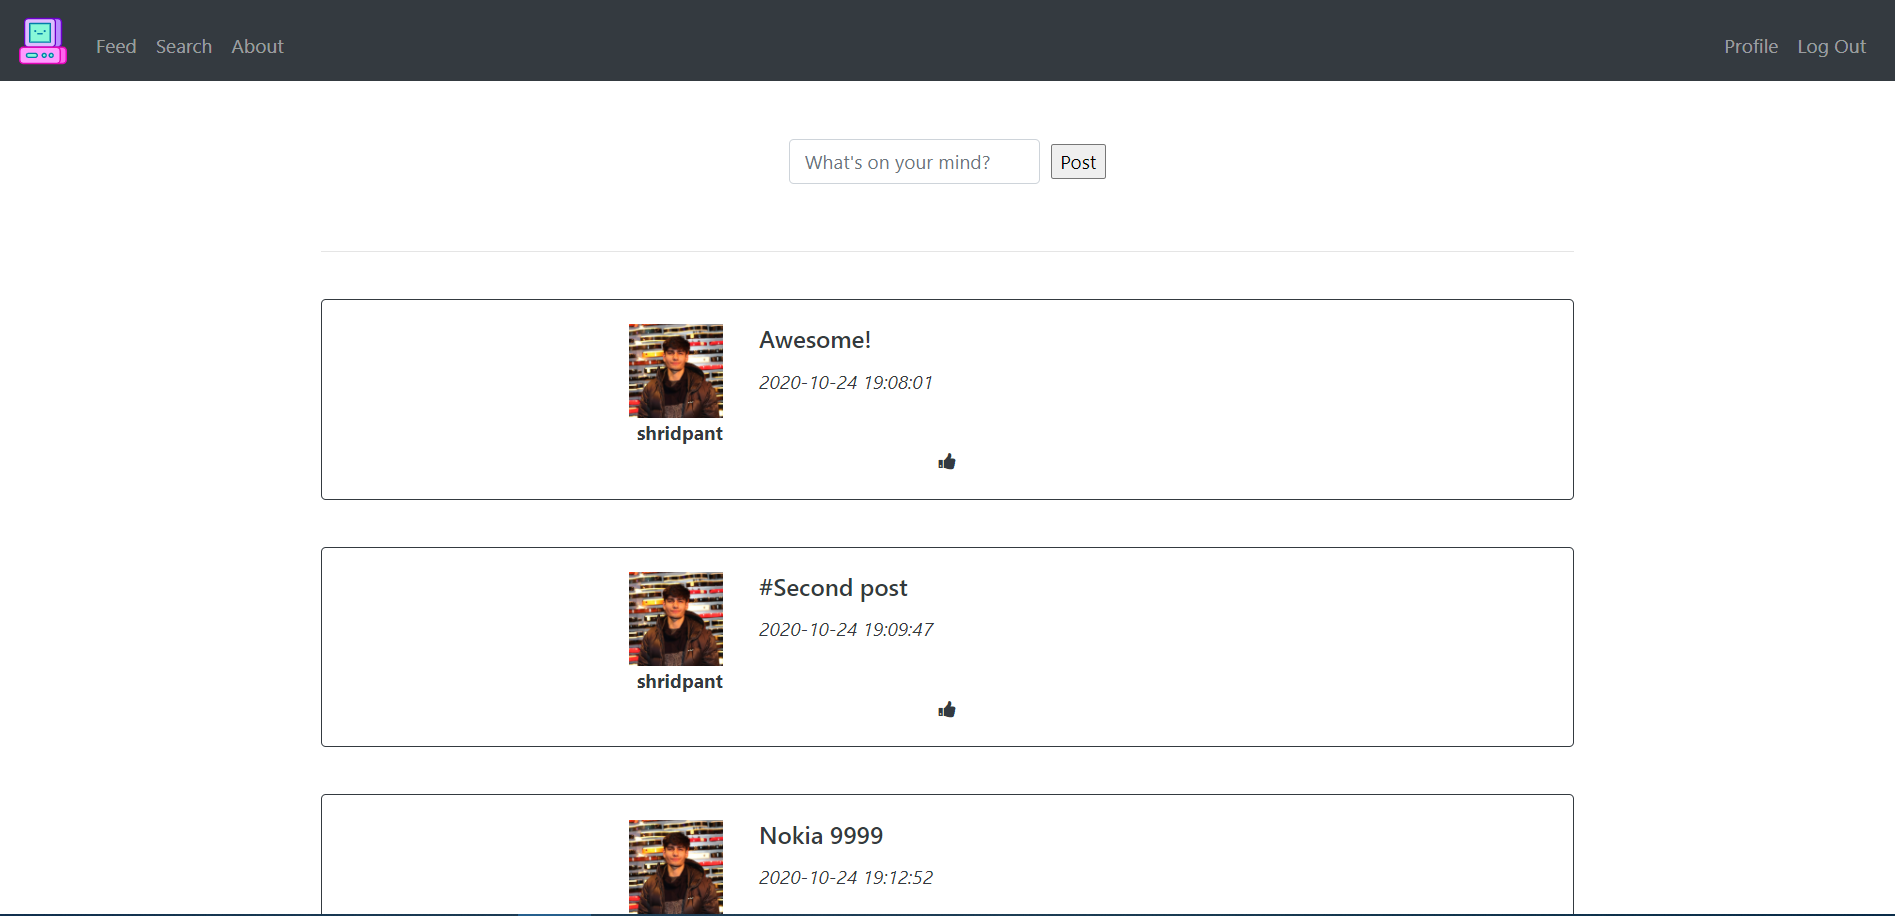
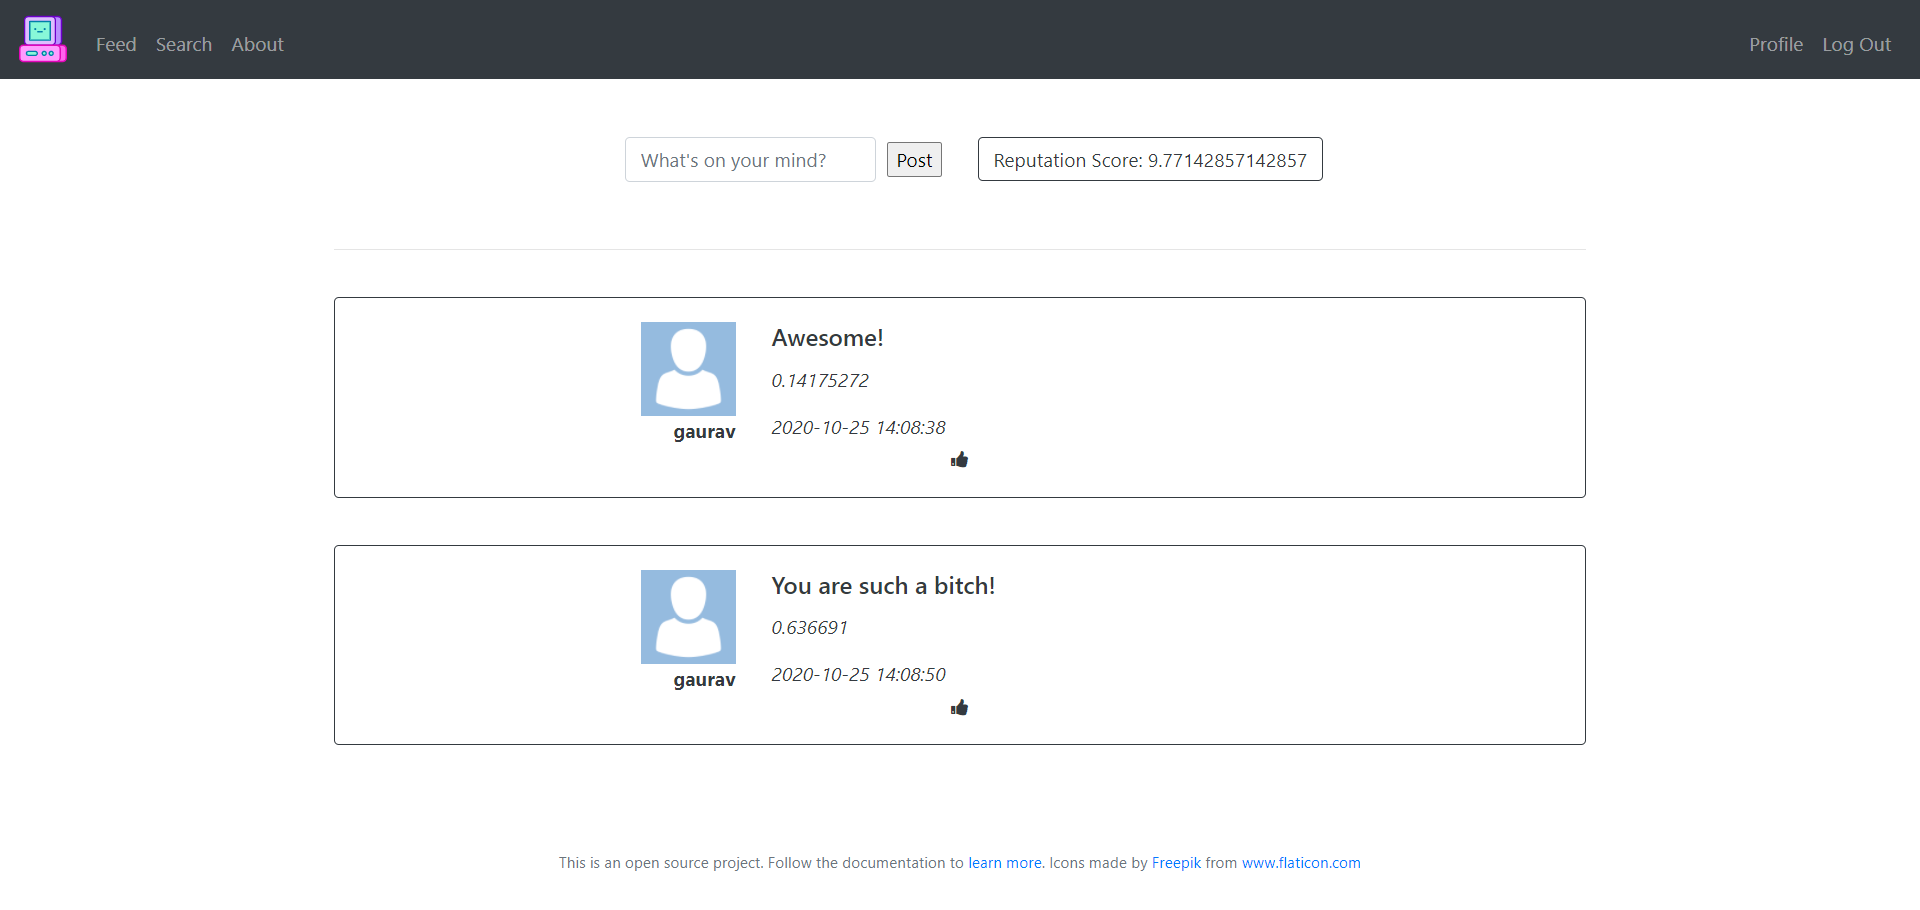
Deployment

diff --git a/templates/index.html b/templates/index.html
@@ -6,7 +6,6 @@
 
 {% block main %}
 
-<<<<<<< HEAD
 <div class="row">
     <div class="col-6" style="text-align: right;">
         <form action="/" method="post">
@@ -18,16 +17,6 @@
     </div>
     <div class="col-4" style="text-align: left;">
         <a href="" class="btn btn-outline-dark">Reputation Score: {{ reputation }}</a>
-=======
-<h1>
-    {{result}}
-</h1>
-
-<form action="/" method="post">
-    <div class="form-group">
-        <input autocomplete="off" autofocus class="form-control" name="post" placeholder="What's on your mind?" type="text">
-        &nbsp;<input type="submit" name="submit" value="Post">
->>>>>>> bff7908fc0d7db42d527cd06d59a53066f8a76aa
     </div>
 </div>
 

diff --git a/README.md b/README.md
@@ -47,21 +47,31 @@ Cyber bullying has risen exponentially over the years, especially among teens. A
 
 [![Product Name Screenshot][product-screenshot]](https://github.com/shridpant/mindhunters)
 
-`Mindhunters` is a state-of-the-art NLP-algorithm on which this social media platform is wrapped. It provides sophisticated detection of texts that are violent, offensive, sexist, racist, discriminant or derogatory in nature. The generated scores are used to provide alerts to the social media platform, which may take appropriate action against the post and/or user.
+`Mindhunters` is a state-of-the-art LSTM-based NLP-algorithm on which this social media platform is wrapped. It provides sophisticated detection of texts that are violent, offensive, sexist, racist, discriminant or derogatory in nature. Scores are generated using `Mindhunters`, which affect the "Reputation" of each user. The generated scores are used to provide alerts to the social media platform, which may take appropriate action against the post and/or user. 
 
 This project was made in our participation of `UB Hacking 2020`.
 
 ### Built With
 
-The server-side application was built with Flask. Other resources included SQLite3 for database management, and HTML, CSS and JavaScript for the client-side application. Mindhunters was made possible by many open-sourced libraries and frameworks.
+The server-side application was built with Flask, Keras and NLTK. Other resources included SQLite3 for database management, and HTML, CSS and JavaScript for the client-side application. Mindhunters was made possible by many open-sourced libraries and frameworks.
 
 ### Usage
 
-The social media platform is a web application which is monitored by `Mindhunters` to provide safety from cyber bullying. To execute, simply:
+The social media platform is a web application monitored by `Mindhunters` to provide safety from cyber bullying. To execute, simply:
 
 1. Clone this repository with `git clone https://github.com/shridpant/mindhunters`. Please ensure that you have all the dependencies from `requirements.txt` installed.
 2. Start your server with `python app.py`.
 3. Open the address from your terminal on your browser. And you're all set!
+
+The web application contains a number of extra features. Examples:
+
+1. Looking up other users
+
+[![Search Screenshot][search-screenshot]]
+
+2. Public profile
+
+[![Profile Screenshot][other-screenshot]]
 
 ## Contributing
 
@@ -79,15 +89,18 @@ The entire `Mindhunters` application was built by [Gaurav Agrawal](https://www.l
 
 ## Future Works
 
-We plan to extend the `Mindhunters` algorithm to include images, audios and videos. 
+We plan to extend the `Mindhunters` algorithm to include images, audios and videos. In text-based analysis, `Mindhunter` can be extended to the identification of misinformation ("fake news").
 
 <!-- ACKNOWLEDGEMENTS -->
 ## Acknowledements
 
 `Mindhunters` wouldn't be possible without the following resources:
 
+* [Tensorflow](https://www.tensorflow.org/)
+* [NLTK](https://www.nltk.org/)
 * [Flask](https://flask.palletsprojects.com/en/1.1.x/)
 * [Jupyter Notebook](https://jupyter.org/)
+* [Keras](https://keras.io/)
 * [Bootstrap](https://getbootstrap.com)
 * [JQuery](https://jquery.com)
 * [Google Fonts](https://fonts.google.com/)
